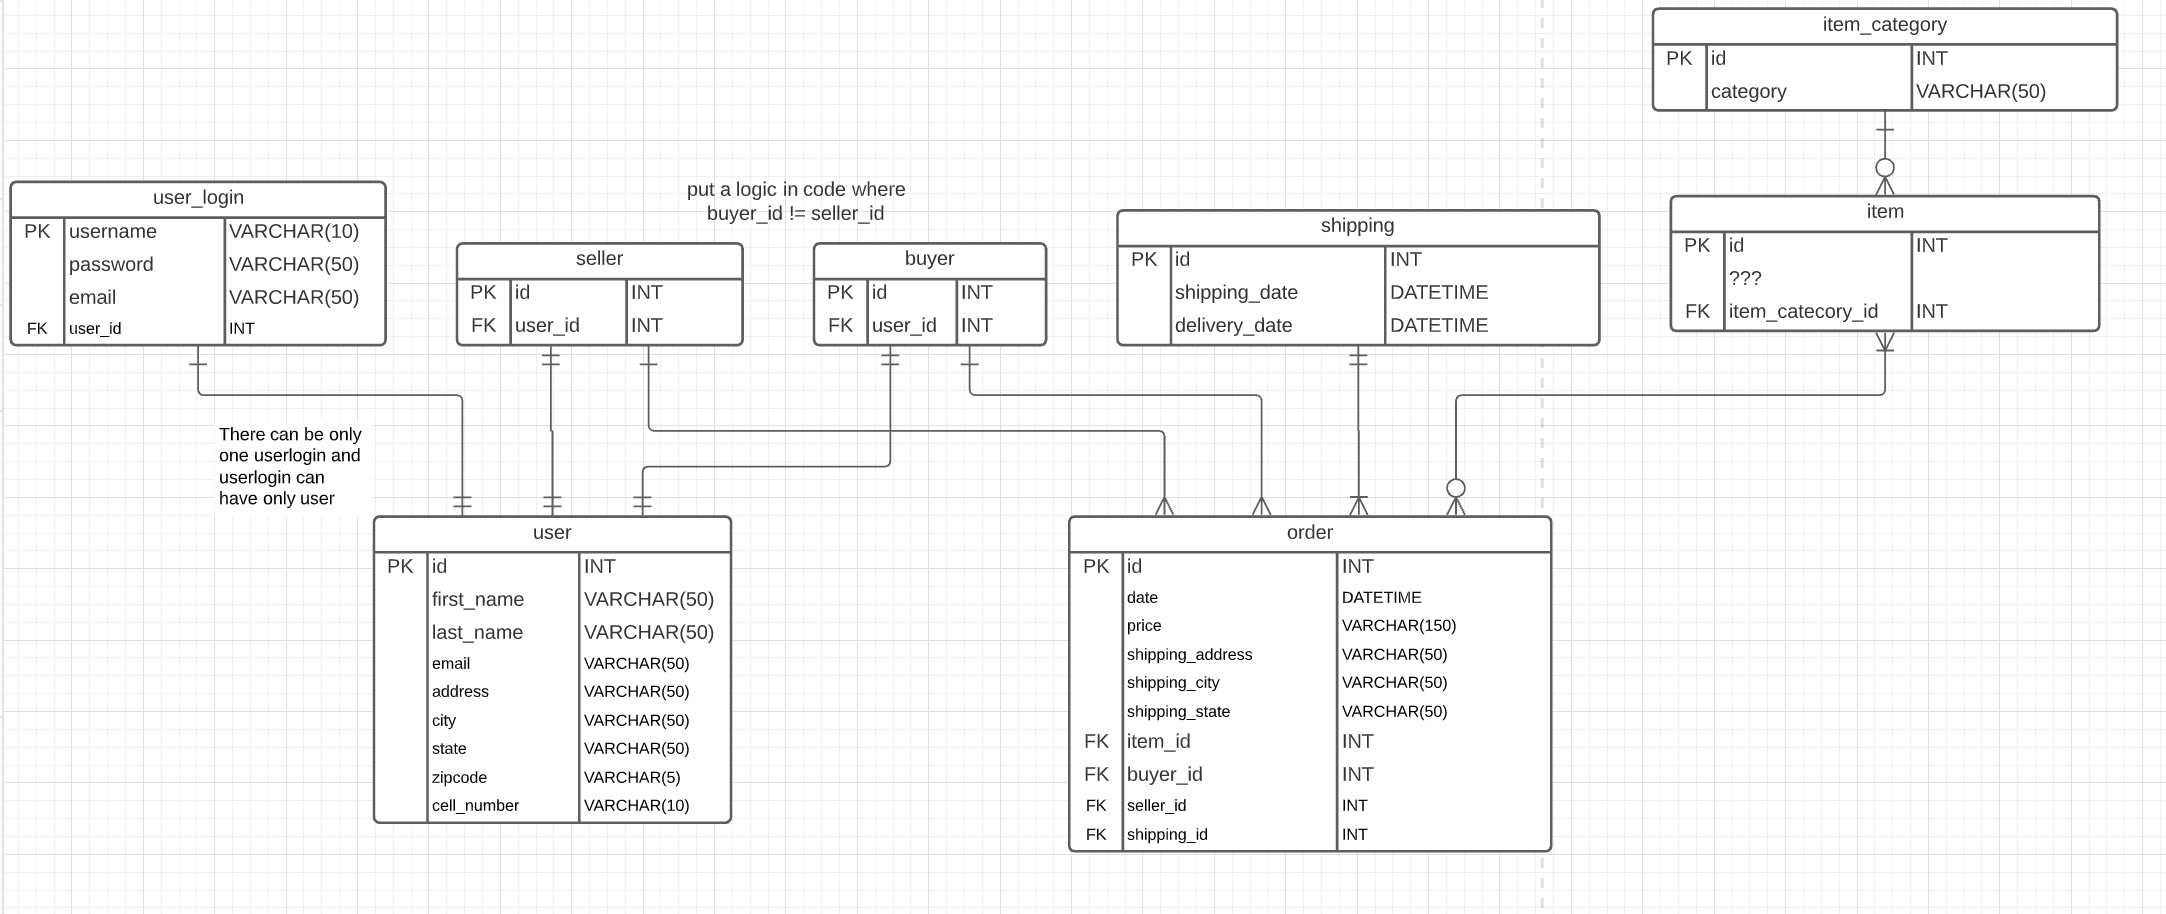
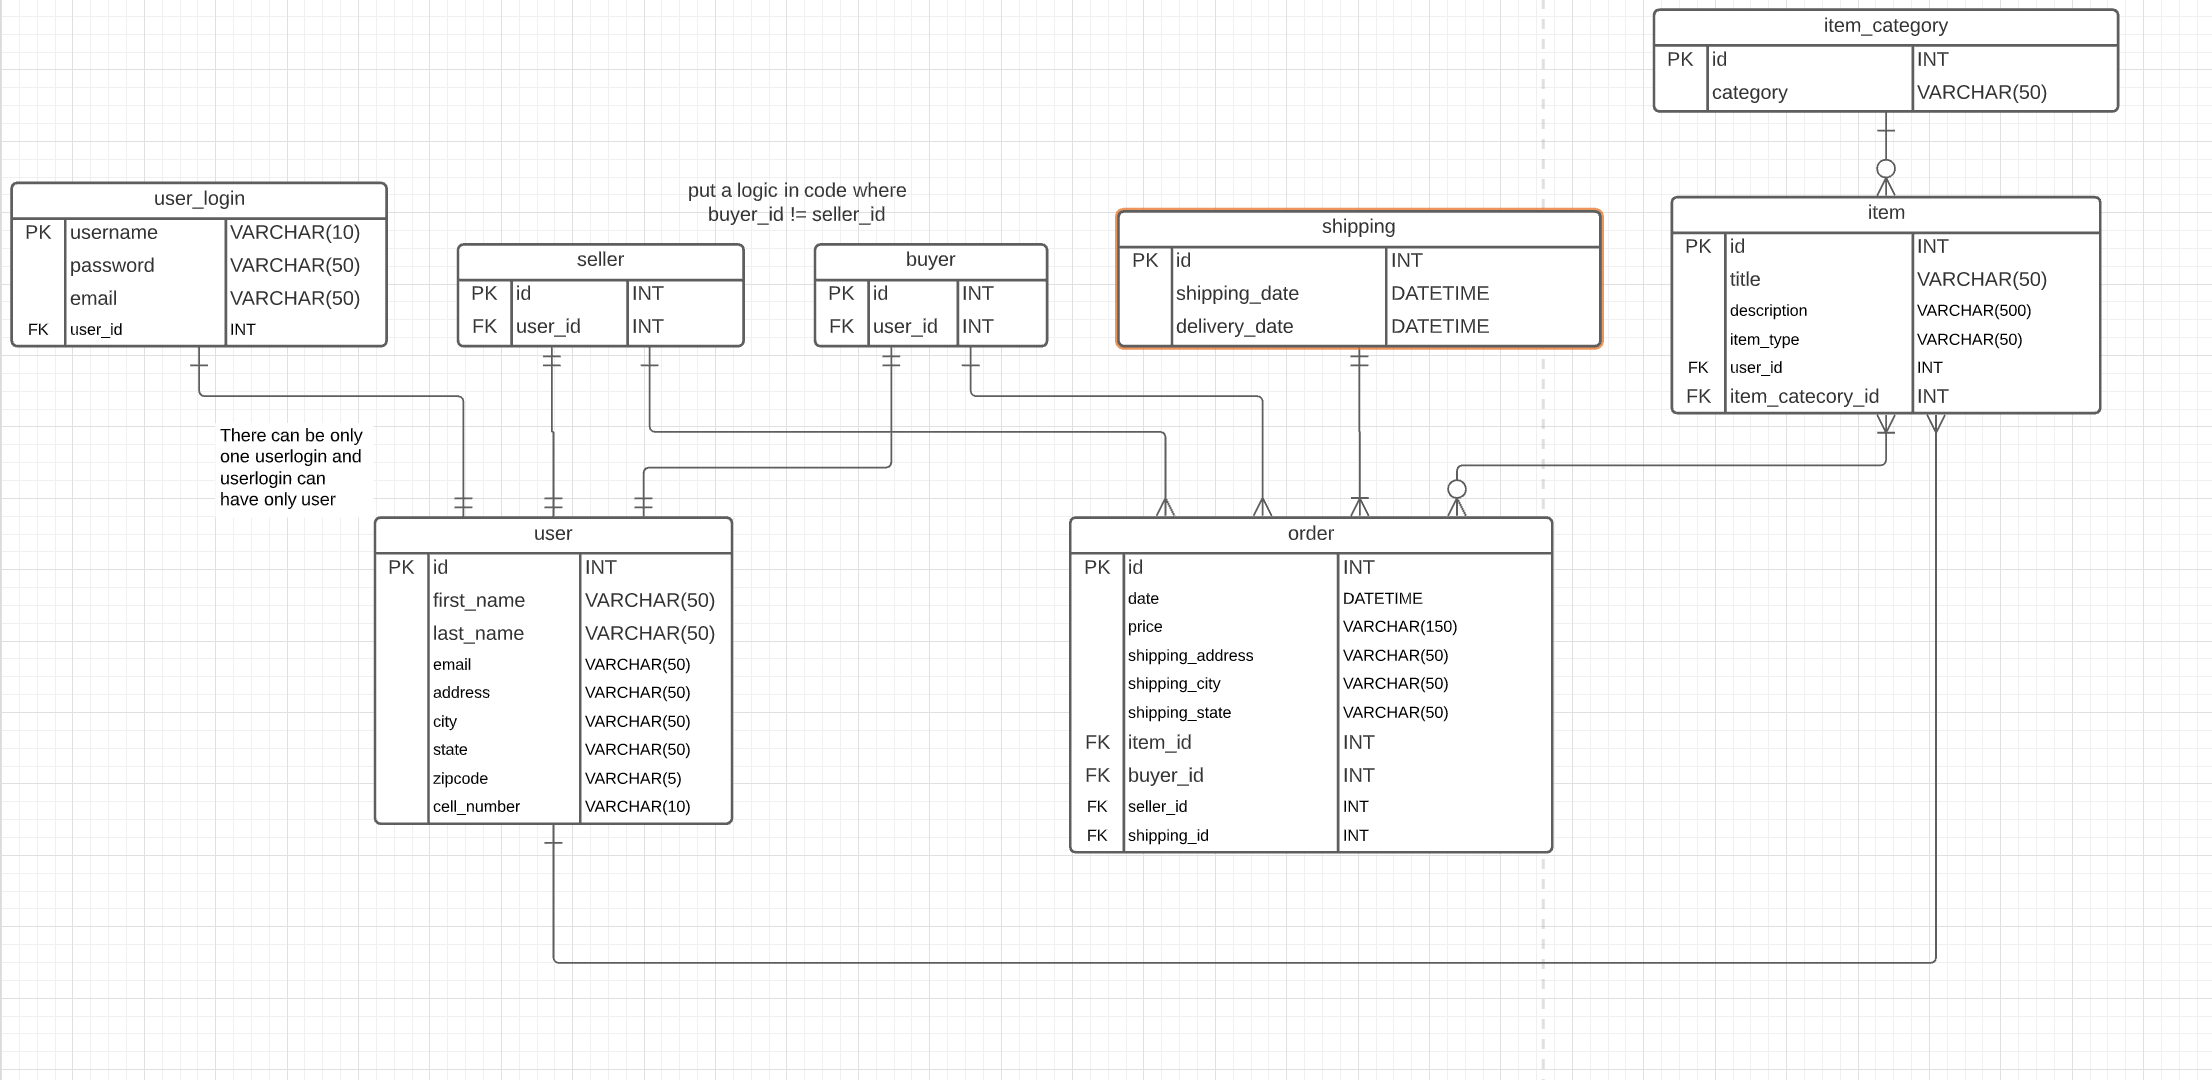
adding models, updated readme with new pics/roles and updated config.json

diff --git a/models/user.js b/models/user.js
@@ -1,0 +1,46 @@
+module.exports = (sequelize, DataTypes) => {
+    const User = sequelize.define('User', {
+      first_name: DataTypes.STRING,
+      last_name: DataTypes.STRING,
+      email: DataTypes.STRING,
+      address: DataTypes.STRING,
+      city: DataTypes.STRING,
+      state: DataTypes.STRING,
+      zipcode: DataTypes.STRING,
+      cell_number: DataTypes.STRING
+    });
+  
+    User.associate = () => {
+      // Associating User with UserLogin
+      // When a User is deleted, also delete the associated UserLogin
+      User.hasOne(models.UserLogin, {
+        onDelete: 'cascade',
+      });
+    };
+
+    User.associate = () => {
+        // Associating User with UserLogin
+        // When a User is deleted, also delete the associated UserLogin
+        User.hasOne(models.Seller, {
+          onDelete: 'cascade',
+        });
+      };
+
+    User.associate = () => {
+        // Associating User with UserLogin
+        // When a User is deleted, also delete the associated UserLogin
+        User.hasOne(models.Buyer, {
+          onDelete: 'cascade',
+        });
+      };
+
+    User.associate = () => {
+        // Associating User with UserLogin
+        // When a User is deleted, also delete the associated UserLogin
+        User.hasMany(models.Item, {
+          onDelete: 'cascade',
+        });
+      };
+  
+    return User;
+  };

diff --git a/models/order.js b/models/order.js
@@ -1,0 +1,39 @@
+module.exports = (sequelize, DataTypes) => {
+    const Order = sequelize.define('Order', {
+      price: DataTypes.INTEGER,
+    });
+  
+    Order.associate = (models) => {
+        // We're saying that a Order should belong to an User
+        // An order can't be created without a user due to the foreign key constraint
+        Order.belongsTo(models.Seller, {
+          foreignKey: {
+            allowNull: true,
+          },
+        });
+      };
+    
+      Order.associate = (models) => {
+        // We're saying that a  should belong to an User
+        // A Seller can't be created without a User due to the foreign key constraint
+        Order.belongsTo(models.Buyer, {
+          foreignKey: {
+            allowNull: true,
+          },
+        });
+      };
+
+      Order.associate = (models) => {
+        // We're saying that a  should belong to an User
+        // A Seller can't be created without a User due to the foreign key constraint
+        Order.belongsTo(models.Item, {
+          foreignKey: {
+            allowNull: true,
+          },
+        });
+      };
+
+
+  
+    return Order;
+  };

diff --git a/models/item.js b/models/item.js
@@ -1,0 +1,32 @@
+module.exports = (sequelize, DataTypes) => {
+
+    const Item = sequelize.define('Item', {
+      title: DataTypes.STRING,
+      description: DataTypes.STRING,
+      item_type: DataTypes.STRING,
+    });
+
+    Item.associate = (models) => {
+        // We're saying that a Post should belong to an Author
+        // A Post can't be created without an Author due to the foreign key constraint
+        Item.belongsTo(models.User, {
+          foreignKey: {
+            allowNull: false,
+          },
+        });
+      };
+
+
+    Item.associate = (models) => {
+        // We're saying that a Post should belong to an Author
+        // A Post can't be created without an Author due to the foreign key constraint
+        Item.belongsTo(models.ItemCategory, {
+          foreignKey: {
+            allowNull: false,
+          },
+        });
+      };
+    
+    return Item;
+  
+  };

diff --git a/models/itemcategory.js b/models/itemcategory.js
@@ -1,0 +1,28 @@
+module.exports = (sequelize, DataTypes) => {
+
+    const ItemCategory = sequelize.define('ItemCategory', {
+      category: DataTypes.STRING,
+    });
+
+    ItemCategory.associate = (models) => {
+        // We're saying that a Post should belong to an Author
+        // A Post can't be created without an Author due to the foreign key constraint
+        ItemCategory.belongsTo(models.Item, {
+          foreignKey: {
+            allowNull: false,
+          },
+        });
+      };
+
+
+    ItemCategory.associate = () => {
+        // Associating User with UserLogin
+        // When a User is deleted, also delete the associated UserLogin
+        ItemCategory.hasMany(models.Item, {
+          onDelete: 'SET NULL',
+        });
+      };
+    
+    return ItemCategory;
+  
+  };

diff --git a/models/seller.js b/models/seller.js
@@ -1,0 +1,29 @@
+module.exports = (sequelize, DataTypes) => {
+
+    const Seller = sequelize.define('Seller', {
+      
+    });
+
+    Seller.associate = (models) => {
+        // We're saying that a Seller should belong to an User
+        // A Seller can't be created without a User due to the foreign key constraint
+        UserLogin.belongsTo(models.User, {
+          foreignKey: {
+            allowNull: true,
+          },
+        });
+      };
+    
+
+    Seller.associate = () => {
+        // Associating User with UserLogin
+        // When a User is deleted, also delete the associated UserLogin
+        Seller.hasMany(models.Order, {
+          onDelete: 'cascade',
+        });
+      };
+
+
+    return Seller;
+  
+  };

diff --git a/models/buyer.js b/models/buyer.js
@@ -1,0 +1,29 @@
+module.exports = (sequelize, DataTypes) => {
+
+    const Buyer = sequelize.define('Buyer', {
+      
+    });
+
+    Buyer.associate = (models) => {
+        // We're saying that a Post should belong to an Author
+        // A Post can't be created without an Author due to the foreign key constraint
+        Buyer.belongsTo(models.User, {
+          foreignKey: {
+            allowNull: true,
+          },
+        });
+      };
+
+
+    Buyer.associate = () => {
+        // Associating User with UserLogin
+        // When a User is deleted, also delete the associated UserLogin
+        Buyer.hasMany(models.Order, {
+          onDelete: 'SET NULL',
+        });
+      };
+    
+    
+    return Buyer;
+  
+  };

diff --git a/models/userlogin.js b/models/userlogin.js
@@ -1,0 +1,21 @@
+module.exports = (sequelize, DataTypes) => {
+
+    const UserLogin = sequelize.define('UserLogin', {
+      username: DataTypes.STRING,
+      email: DataTypes.STRING,
+      password: DataTypes.STRING,
+    });
+
+    UserLogin.associate = (models) => {
+        // We're saying that a Post should belong to an Author
+        // A Post can't be created without an Author due to the foreign key constraint
+        UserLogin.belongsTo(models.User, {
+          foreignKey: {
+            allowNull: false,
+          },
+        });
+      };
+    
+    return UserLogin;
+  
+  };

diff --git a/README.md b/README.md
@@ -18,3 +18,13 @@
 ## Authors
 This application was created Satyam, Hanna, Andy, Natalia and Yaze
 
+## Team Members and Responsibilities - 
+
+<ul>
+<li>Hanna - Test Validation/Model/Frontend JS/</li>
+<li>Natalia - HTML Routes/API Routes/Frontend JS</li>
+<li>Andy - User Login/Model/Controllers/Chat</li>
+<li>Yaze - HTML/CSS</li>
+<li>Satyam - Models/Controllers/User Login/Chat/Team Lead </li>
+</ul>
+
